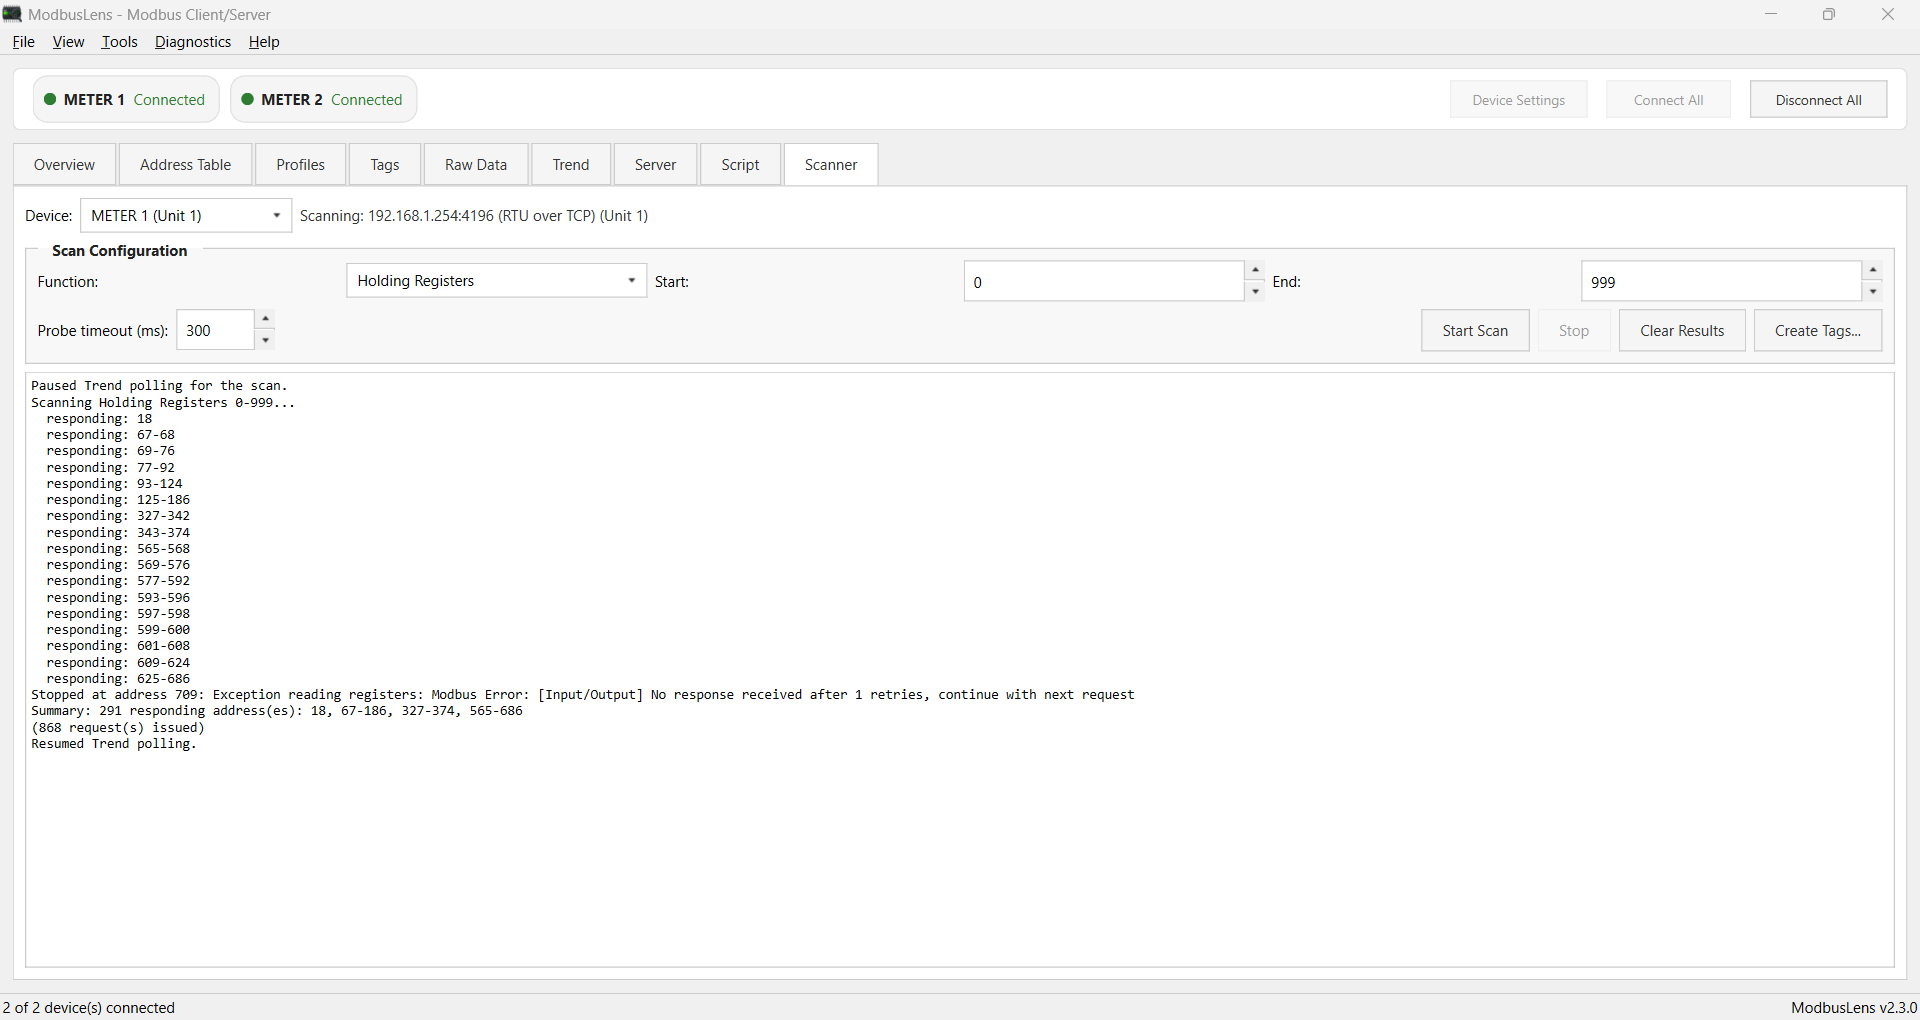
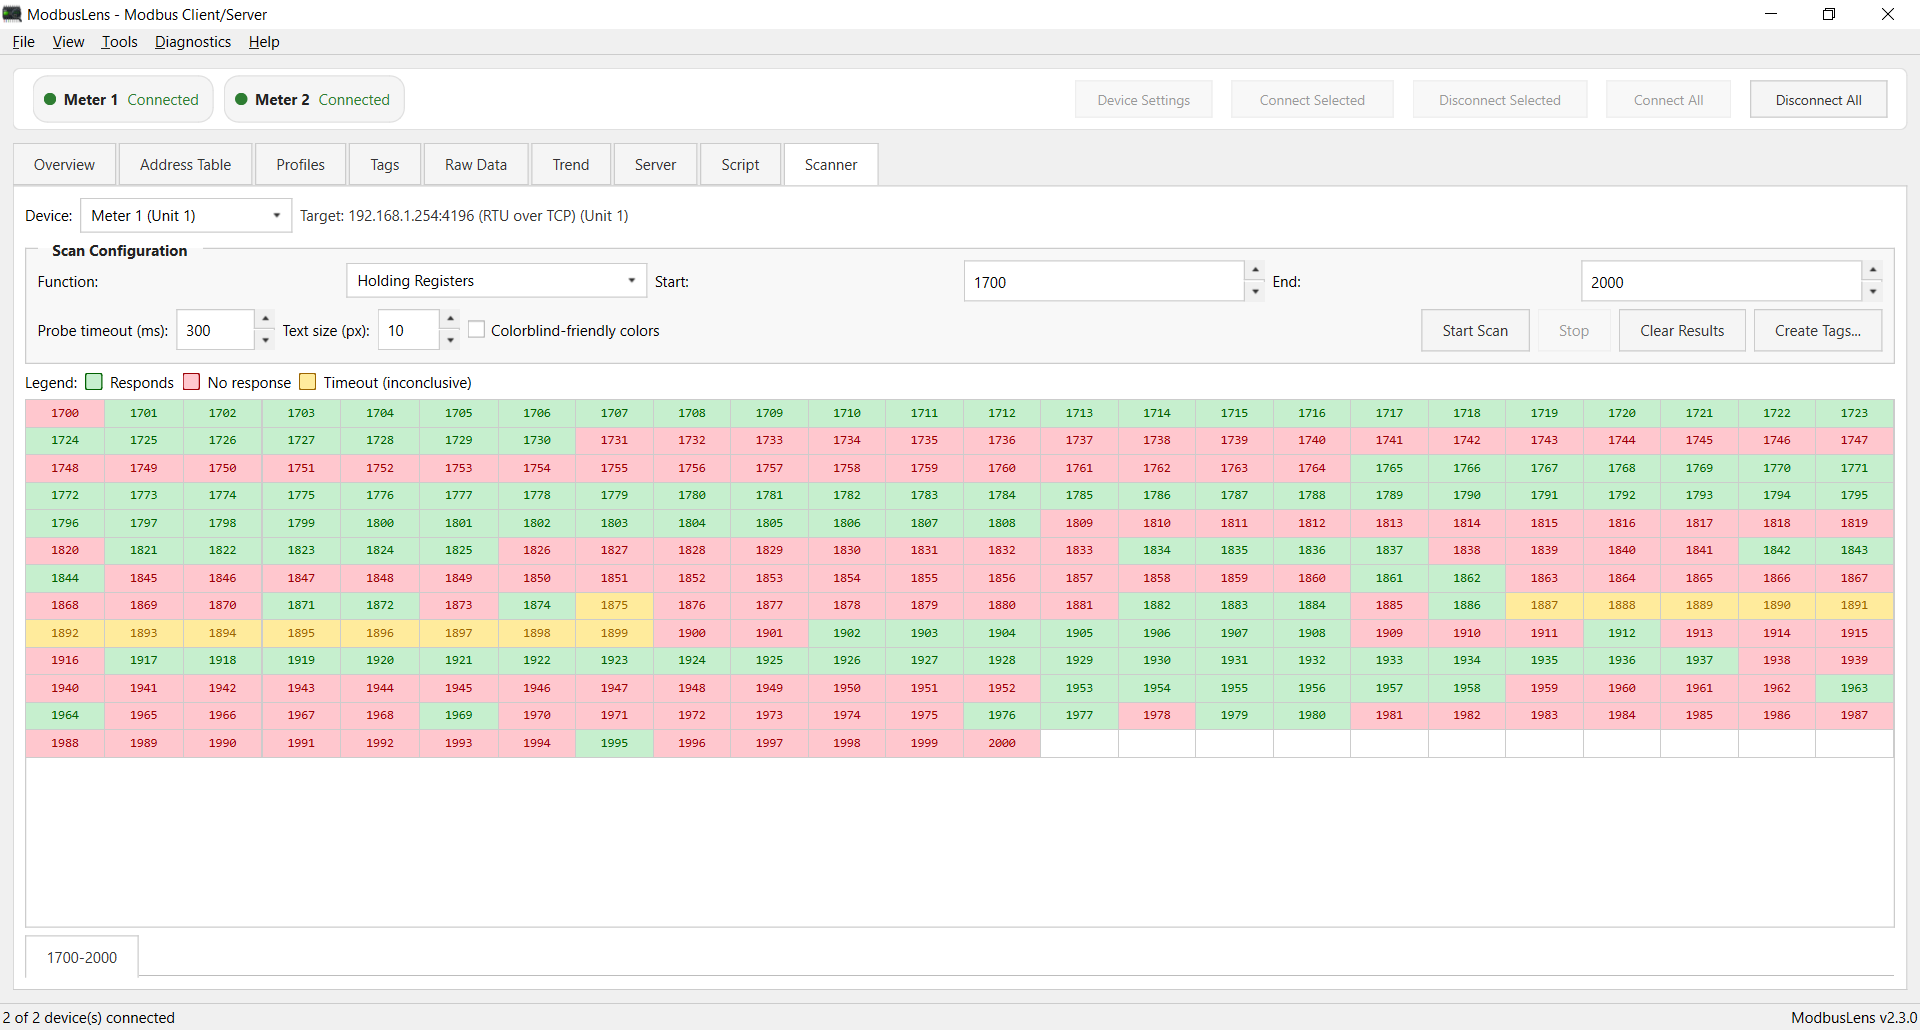
Scanner timeout fix, update screenshot

diff --git a/gui/diagnostics/register_scanner.py b/gui/diagnostics/register_scanner.py
@@ -25,6 +25,15 @@ _PALETTE_COLORBLIND = {
     "ok": (QColor("#BFE1F5"), QColor("#003C64"), "responds"),
     "bad": (QColor("#FFE1B3"), QColor("#7A4A00"), "no response"),
 }
+# A third status, for an address that timed out even after narrowing to one at a time (a
+# flaky link's fault, not a confirmed answer either way). Excel's own "Neutral" amber is
+# plenty distinct from the standard palette's pink "bad" -- but the colorblind palette's
+# "bad" is already an orange, which that same amber sits too close to, so colorblind mode
+# gets a plain gray third color instead, unmistakable from both its blue and its orange.
+_TIMEOUT_COLOR_STANDARD = (QColor("#FFEB9C"), QColor("#9C6500"),
+                           "no response (timeout) -- inconclusive, try scanning it again")
+_TIMEOUT_COLOR_COLORBLIND = (QColor("#D9D9D9"), QColor("#404040"),
+                             "no response (timeout) -- inconclusive, try scanning it again")
 
 # Target cell size for working out how many addresses fit one Excel-like "sheet" page at
 # the grid's current on-screen size -- a page's actual columns still stretch evenly to
@@ -105,9 +114,10 @@ class AddressScanWorker(QThread):
 
     range_found = Signal(int, int)  # start, count -- a confirmed contiguous responding run
     range_not_responding = Signal(int)  # address -- a single address confirmed not to respond
+    range_inconclusive = Signal(int)  # address -- timed out even after narrowing to one address
     progress = Signal(int)  # 0-100
     output = Signal(str)
-    scan_complete = Signal(int, int)  # responding_count, probes_issued
+    scan_complete = Signal(int, int, int)  # responding_count, probes_issued, inconclusive_count
 
     def __init__(self, modbus, function_name, start_address, end_address, probe_timeout,
                  reserve_range=None, release_range=None):
@@ -137,6 +147,7 @@ class AddressScanWorker(QThread):
         responding = 0
         probes = 0
         resolved = 0
+        inconclusive = 0
         aborted = False
         try:
             pending = deque()
@@ -203,15 +214,37 @@ class AddressScanWorker(QThread):
                         left = count // 2
                         pending.appendleft((block_start + left, count - left))
                         pending.appendleft((block_start, left))
-                else:
-                    # No exception code at all -- a real timeout/connection failure, not
-                    # the device telling us "not here." Continuing would just probe a
-                    # dead connection.
+                elif self.modbus.last_error_category == "connection":
+                    # The link itself is down (socket/serial closed), not just one slow
+                    # reply -- further probing would just hit a dead connection.
                     self.output.emit(
                         f"Stopped at address {block_start}: {self.modbus.last_error or 'no response'}"
                     )
                     aborted = True
                     break
+                else:
+                    # A genuine I/O timeout with no exception code -- the device didn't
+                    # answer at all, not even with an error. On a flaky link (e.g. an
+                    # RS485 bus with no termination resistor) this happens more on larger
+                    # reads, which take longer to transmit and are more likely to collide
+                    # or get corrupted -- narrowing to smaller reads, exactly like the
+                    # exception-response case, usually gets a clean answer. Only a single
+                    # address that still can't be read after narrowing all the way down
+                    # is given up on, marked inconclusive rather than "confirmed not
+                    # responding" (a real exception) or green (never confirmed) -- and the
+                    # rest of the range keeps scanning instead of the whole scan stopping.
+                    if count == 1:
+                        resolved += 1
+                        inconclusive += 1
+                        self.output.emit(
+                            f"No response from address {block_start} after retries -- "
+                            "marked inconclusive, continuing."
+                        )
+                        self.range_inconclusive.emit(block_start)
+                    else:
+                        left = count // 2
+                        pending.appendleft((block_start + left, count - left))
+                        pending.appendleft((block_start, left))
 
                 self.progress.emit(int(resolved / total * 100) if total else 100)
         finally:
@@ -219,7 +252,7 @@ class AddressScanWorker(QThread):
 
         if not aborted:
             self.output.emit("Scan stopped." if self.should_stop else "Scan complete.")
-        self.scan_complete.emit(responding, probes)
+        self.scan_complete.emit(responding, probes, inconclusive)
 
 
 def _merge_ranges(ranges):
@@ -402,6 +435,24 @@ class RegisterScannerWidget(QWidget):
         self.progress_bar.setVisible(False)
         layout.addWidget(self.progress_bar)
 
+        # Legend: what the grid's colors mean -- swatches recolor with the colorblind
+        # checkbox, so the legend always matches whatever's actually in the grid.
+        legend_row = QHBoxLayout()
+        legend_row.addWidget(QLabel("Legend:"))
+        self._legend_swatches = {}
+        for status, text in (
+            ("ok", "Responds"),
+            ("bad", "No response"),
+            ("timeout", "Timeout (inconclusive)"),
+        ):
+            swatch = QLabel()
+            swatch.setFixedSize(14, 14)
+            legend_row.addWidget(swatch)
+            legend_row.addWidget(QLabel(text))
+            self._legend_swatches[status] = swatch
+        legend_row.addStretch()
+        layout.addLayout(legend_row)
+
         # Result grid: one cell per scanned address, colored once the scan resolves it --
         # light green responding, light red not -- so the whole range's shape is visible
         # at a glance instead of read line by line out of a log.
@@ -434,6 +485,12 @@ class RegisterScannerWidget(QWidget):
         self._address_status = {}  # protocol address -> "ok"/"bad", for the whole scanned range
         self._pages = []  # [(page_start, page_end), ...] covering the whole scanned range
         self._current_page = 0
+        self._refresh_legend_colors()
+
+    def _refresh_legend_colors(self):
+        for status, swatch in self._legend_swatches.items():
+            bg, fg, _ = self._status_colors(status)
+            swatch.setStyleSheet(f"background-color: {bg.name()}; border: 1px solid {fg.name()}; border-radius: 2px;")
 
     def _cell_width(self):
         return max(40, self._cell_font_px * _GRID_CELL_WIDTH_PER_PX)
@@ -443,7 +500,11 @@ class RegisterScannerWidget(QWidget):
 
     def _status_colors(self, status):
         """(bg, fg, tooltip word) for a cell -- the colorblind-friendly palette swaps in
-        when that checkbox is on, same statuses either way."""
+        when that checkbox is on, same statuses either way. "timeout" (inconclusive after
+        retries) gets its own third color, picked per palette since the standard amber
+        sits too close to the colorblind palette's own orange "bad"."""
+        if status == "timeout":
+            return _TIMEOUT_COLOR_COLORBLIND if self._colorblind else _TIMEOUT_COLOR_STANDARD
         palette = _PALETTE_COLORBLIND if self._colorblind else _PALETTE_STANDARD
         c = self.parent_window._colors()
         return palette.get(status, (QColor(c["surface"]), QColor(c["text"]), "not yet resolved"))
@@ -465,6 +526,7 @@ class RegisterScannerWidget(QWidget):
 
     def _on_colorblind_toggled(self, checked):
         self._colorblind = checked
+        self._refresh_legend_colors()
         if self._pages:
             self._show_page(self._current_page)  # recolor what's on screen, same layout
 
@@ -696,6 +758,7 @@ class RegisterScannerWidget(QWidget):
         )
         self.address_worker.range_found.connect(self._on_address_range_found)
         self.address_worker.range_not_responding.connect(self._on_address_range_not_responding)
+        self.address_worker.range_inconclusive.connect(self._on_address_range_inconclusive)
         self.address_worker.progress.connect(self.progress_bar.setValue)
         self.address_worker.output.connect(self._log)
         self.address_worker.scan_complete.connect(self._on_address_scan_complete)
@@ -712,13 +775,28 @@ class RegisterScannerWidget(QWidget):
     def _on_address_range_not_responding(self, address):
         self._color_grid_range(address, 1, responding=False)
 
-    def _on_address_scan_complete(self, responding_count, probes_issued):
+    def _on_address_range_inconclusive(self, address):
+        self._address_status[address] = "timeout"
+        item = self._grid_items.get(address)
+        if item is None:
+            return  # resolved address is on a page that isn't the one on screen
+        bg, fg, tip = self._status_colors("timeout")
+        item.setBackground(bg)
+        item.setForeground(fg)
+        item.setToolTip(f"Protocol address {address} -- {tip}")
+
+    def _on_address_scan_complete(self, responding_count, probes_issued, inconclusive_count):
         merged = _merge_ranges(self._found_ranges)
         if merged:
             summary = ", ".join(f"{s}" if s == e else f"{s}-{e}" for s, e in merged)
             self._log(f"Summary: {responding_count} responding address(es): {summary}")
         else:
             self._log("Summary: no responding addresses found in range.")
+        if inconclusive_count:
+            self._log(
+                f"{inconclusive_count} address(es) timed out even after retries (amber in the "
+                "grid) -- likely a flaky link; try scanning that narrow range again."
+            )
         self._log(f"({probes_issued} request(s) issued)")
         self.progress_bar.setVisible(False)
         self.addr_stop_btn.setEnabled(False)
